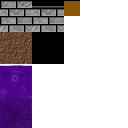
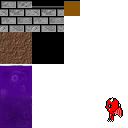
- actionListener

Changed region(s): [[0.8125, 0.75, 0.9688, 0.9688]]

diff --git a/KaiJaScroller/Classes/Gamestates/InGame.cs b/KaiJaScroller/Classes/Gamestates/InGame.cs
@@ -237,6 +237,12 @@ public class InGame : IGameState
 
         }
 
+        Console.WriteLine(map.pictures.Count);
+        foreach (TiledMap.TiledPicture pic in map.pictures)
+        {
+            Console.WriteLine(pic);
+        }
+
 
         for (int z = 0; z < ids.GetLength(2); z++)
         {

diff --git a/KaiJaScroller/Classes/InterfacesAbstracts/IActionListener.cs b/KaiJaScroller/Classes/InterfacesAbstracts/IActionListener.cs
@@ -1,0 +1,11 @@
+using System;
+using System.Collections.Generic;
+using System.Linq;
+using System.Text;
+using System.Threading.Tasks;
+
+
+public interface IActionListener
+{
+    bool performed(GameTime gameTime, InGame ingame);
+}
